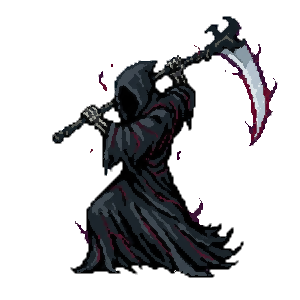
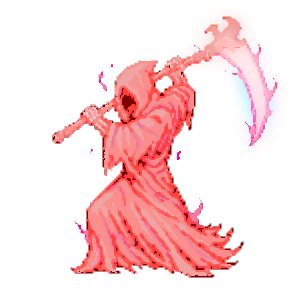
only transform reaper at the start of the next turn; remove scrolling on desktop

Changed region(s): [[0.15, 0.03, 0.93, 0.93]]

diff --git a/DungeonGame.UI/src/props/GameLog.tsx b/DungeonGame.UI/src/props/GameLog.tsx
@@ -1,16 +1,8 @@
-import { useEffect, useRef } from 'react';
-
 interface GameLogProps {
   messages: string[];
 }
 
 export const GameLog = ({ messages }: GameLogProps) => {
-  const logEndRef = useRef<HTMLDivElement>(null);
-
-  useEffect(() => {
-    logEndRef.current?.scrollIntoView({ behavior: "smooth" });
-  }, [messages]);
-
   return (
     <div className="w-full pointer-events-none z-15">
     <div className="mx-auto bg-slate-950/90 border border-slate-700 rounded-t-lg p-2 h-40 overflow-y-auto pointer-events-auto shadow-2xl backdrop-blur-sm">
@@ -20,7 +12,6 @@ export const GameLog = ({ messages }: GameLogProps) => {
           {" "}{msg}
         </div>
       ))}
-      <div ref={logEndRef} />
     </div>
   </div>
   );

diff --git a/DungeonGame.UI/src/props/CharacterStats.tsx b/DungeonGame.UI/src/props/CharacterStats.tsx
@@ -54,7 +54,7 @@ export const CharacterStats = ({ name, stats, energy, displayEnergy, isEnemy, di
               <FlashCell
                 key={`base-${type}`}
                 value={stats[type] ?? 0}
-                className="bg-slate-900/20 p-1 text-center font-bold text-base"
+                className={`bg-slate-900/20 p-1 text-center font-bold text-base ${stats[type] >= 99 ? 'text-red-400 ' : ''}`}
                 >{stats[type] ?? 0}</FlashCell>
             ))}
           </>

diff --git a/DungeonGame.UI/src/App.tsx b/DungeonGame.UI/src/App.tsx
@@ -346,7 +346,7 @@ const getTileType = (monster: Monster) : TileType => {
     if (monster.Phase === 3)
       return "Direwolf-3";
   }
-  else if (monster.Type === "Reaper" && monster.Phase === 2)
+  else if (monster.Type === "Reaper" && (monster.Phase === 2 || monster.Phase === -2))
   {
     return "Reaper-2";
   }

diff --git a/DungeonGame.Engine/DungeonGame.Engine/GameContent/MonsterSpecialFunctions.cs b/DungeonGame.Engine/DungeonGame.Engine/GameContent/MonsterSpecialFunctions.cs
@@ -71,7 +71,19 @@ namespace DungeonGame.Engine.GameContent
             {
                 if (monsterPosition.Monster.Type == MonsterType.Reaper)
                 {
-                    RecalculateReaper(monsterPosition);
+                    RecalculateReaperPhase(monsterPosition);
+                    continue;
+                }
+            }
+        }
+
+        public static void TurnStartMonsterFunctions(GameState gameState)
+        {
+            foreach(var monsterPosition in gameState.World.Monsters)
+            {
+                if (monsterPosition.Monster.Type == MonsterType.Reaper)
+                {
+                    TransformReaper(monsterPosition);
                     continue;
                 }
             }
@@ -91,12 +103,32 @@ namespace DungeonGame.Engine.GameContent
             direwolf.Monster.SetStat(SkillType.Attack, GameConstants.DirewolfBaseAttack + (neighbouringDirewolfCount * GameConstants.DirewolfBonusAttack));
         }
 
-        private static void RecalculateReaper(MonsterPosition reaper)
+        private static void RecalculateReaperPhase(MonsterPosition reaper)
         {
             var moved = reaper.LastMovementPath.Any();
 
-            reaper.Monster.Phase = moved ? 1 : 2;
-            reaper.Monster.SetStat(SkillType.Attack, moved ? GameConstants.ReaperBaseAttack : GameConstants.ReaperEmpoweredAttack);
+            if (moved)
+            {
+                reaper.Monster.Phase = -1;
+            }
+            else if (reaper.Monster.Phase == 1)
+            {
+                reaper.Monster.Phase = -2;
+            }
+        }
+
+        private static void TransformReaper(MonsterPosition reaper)
+        {
+            if (reaper.Monster.Phase == -1)
+            {
+                reaper.Monster.Phase = 1;
+                reaper.Monster.SetStat(SkillType.Attack, GameConstants.ReaperBaseAttack);
+            }
+            else if (reaper.Monster.Phase == -2)
+            {
+                reaper.Monster.Phase = 2;
+                reaper.Monster.SetStat(SkillType.Attack, GameConstants.ReaperEmpoweredAttack);
+            }
         }
     }
 }

diff --git a/DungeonGame.Engine/DungeonGame.Engine/GameInputHandlers/Handlers/EnergyDicePreRollHandler.cs b/DungeonGame.Engine/DungeonGame.Engine/GameInputHandlers/Handlers/EnergyDicePreRollHandler.cs
@@ -1,5 +1,6 @@
 using System;
 using System.Linq;
+using DungeonGame.Engine.GameContent;
 using DungeonGame.Engine.Models;
 using DungeonGame.Engine.Models.Enums;
 using DungeonGame.Engine.Models.InputEventModels;
@@ -29,6 +30,8 @@ namespace DungeonGame.Engine.GameInputHandlers.Handlers
                         mp.Monster.BossDice.Add(SkillType.Defence, RandomUtility.RollDice(mp.Monster.BossDiceType!.Value));
                     }
                 });
+
+                MonsterSpecialFunctions.TurnStartMonsterFunctions(gameState);
 
                 return gameState;
             }

diff --git a/DungeonGame.Engine/DungeonGame.Engine.Tests/GameTemplates/MonsterSpecialFunctionsTests.cs b/DungeonGame.Engine/DungeonGame.Engine.Tests/GameTemplates/MonsterSpecialFunctionsTests.cs
@@ -155,7 +155,6 @@ public class MonsterSpecialFunctionsTests
 
         MonsterSpecialFunctions.PostMonstersAttackFunction(gameState);
 
-        Assert.That(gameState.World.Monsters[0].Monster.Phase, Is.EqualTo(moved ? 1 : 2));
-        Assert.That(gameState.World.Monsters[0].Monster.GetStat(SkillType.Attack), Is.EqualTo(moved ? GameConstants.ReaperBaseAttack : GameConstants.ReaperEmpoweredAttack));
+        Assert.That(gameState.World.Monsters[0].Monster.Phase, Is.EqualTo(moved ? -1 : -2));
     }
 }
